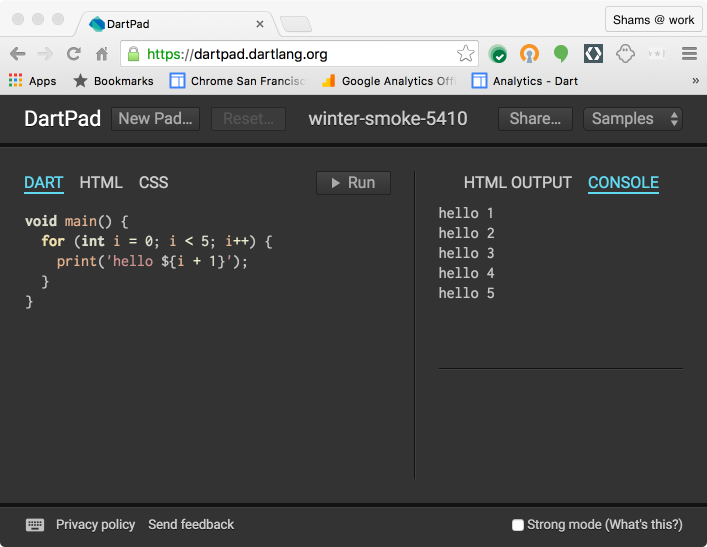
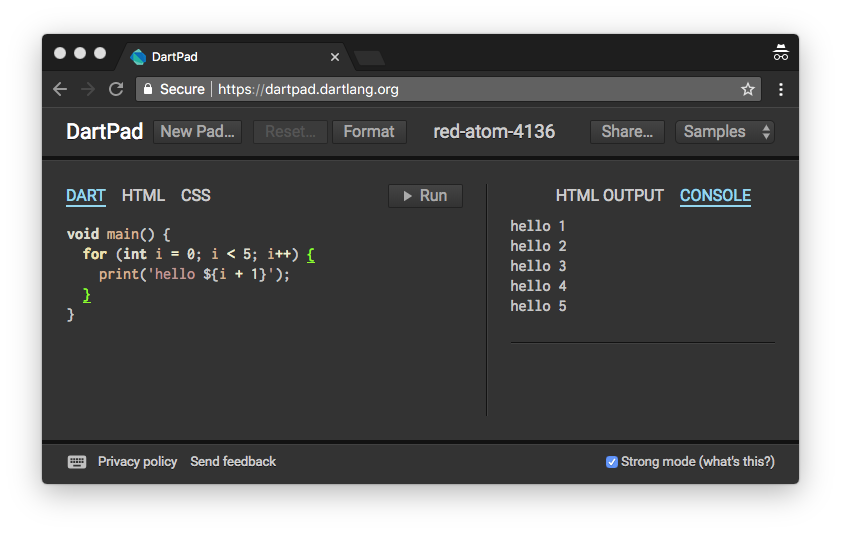
Update DartPad page
* Update the screenshot.
* Add instructions for using Format button.
* Improve flow & navigation (e.g. add "Library support" header).
* Clarify library support.
* Add site URL to top of page.

diff --git a/src/tools/dartpad.md b/src/tools/dartpad.md
@@ -4,21 +4,29 @@ description: The tool that lets you interactively play with Dart in a browser.
 permalink: /tools/dartpad
 ---
 
-DartPad, an open-source tool,
-allows you to play with the Dart language features in any modern browser.
+<a href="{{site.custom.dartpad.direct-link}}"
+target="_blank">DartPad (dartpad.dartlang.org)</a>
+is an open-source tool that
+lets you play with the Dart language in any modern browser.
+Here's what DartPad looks like:
 
-As you can see in the following screenshot, DartPad launches with a simple counting
-function it's been pre-loaded with a different example:
+<img src="images/DartPadWindow.png" alt="DartPad screenshot" />
 
-<img src="images/DartPadWindow.png" alt="a screenshot showing what DartPad looks like" />
 
-It's easy to get started!
+## Getting started
 
-## Open DartPad, and run some samples {#step-1-open-and-run}
+To get familiar with DartPad, try these steps:
+
+* [Run some samples.](#step-1-open-and-run)
+* [Create a simple command-line app.](#step-2-server)
+* [Create a simple web app.](#step-3-web)
+
+
+### Open DartPad, and run some samples {#step-1-open-and-run}
 
 <ol markdown="1">
   <li markdown="1">
-  Go to <a href="{{site.custom.dartpad.direct-link}}" target="_blank">dartpad.dartlang.org</a>.
+  Go to <a href="{{site.custom.dartpad.direct-link}}" target="_blank">dartpad.dartlang.org.</a>
 
   A sample appears on the left and the output appears on the right.
   If you've played with DartPad before,
@@ -28,6 +36,9 @@ It's easy to get started!
   **What about mobile?**
   DartPad has a slightly different user interface on mobile devices.
   To run an app, click the red button, which takes you to the output.
+  {% comment %}
+  TODO: Update if/when mobile UI changes.
+  {% endcomment %}
   </aside>
   </li>
 
@@ -54,7 +65,8 @@ It's easy to get started!
   </li>
 </ol>
 
-## Create a command-line app {#step-2-server}
+
+### Create a command-line app {#step-2-server}
 
 To create a simple command-line app, use **New Pad**.
 
@@ -82,6 +94,12 @@ for (var char in 'hello'.split('')) {
   </li>
 
   <li markdown="1">
+  Click the **Format** button.
+  DartPad uses the [Dart formatter](https://github.com/dart-lang/dart_style#readme)
+  to ensure that your code has proper indentation, white space, and line wrapping.
+  </li>
+
+  <li markdown="1">
   Run your app.
   </li>
 
@@ -102,7 +120,8 @@ for (var char in 'hello'.split('')) {
 </li>
 </ol>
 
-## Create a web app {#step-3-web}
+
+### Create a web app {#step-3-web}
 
 To create a simple web app, start with the Hello World HTML sample.
 
@@ -148,8 +167,12 @@ To create a simple web app, start with the Hello World HTML sample.
   </li>
 </ol>
 
----
 
-Note that DartPad doesn't support importing packages.
-When you are ready to leverage libraries,
-download a Dart SDK.
+## Library support
+
+DartPad supports [dart:* libraries]({{site.dart_api}}) that work with web apps;
+it doesn't support [dart:io]({{site.dart_api}}/stable/dart-io) or
+libraries from [packages.]({{site.pub}})
+If you want to use dart:io, use the [Dart SDK](/tools/sdk) instead.
+If you want to use a package, get the SDK for a
+[platform](/guides/platforms) that the package supports.
